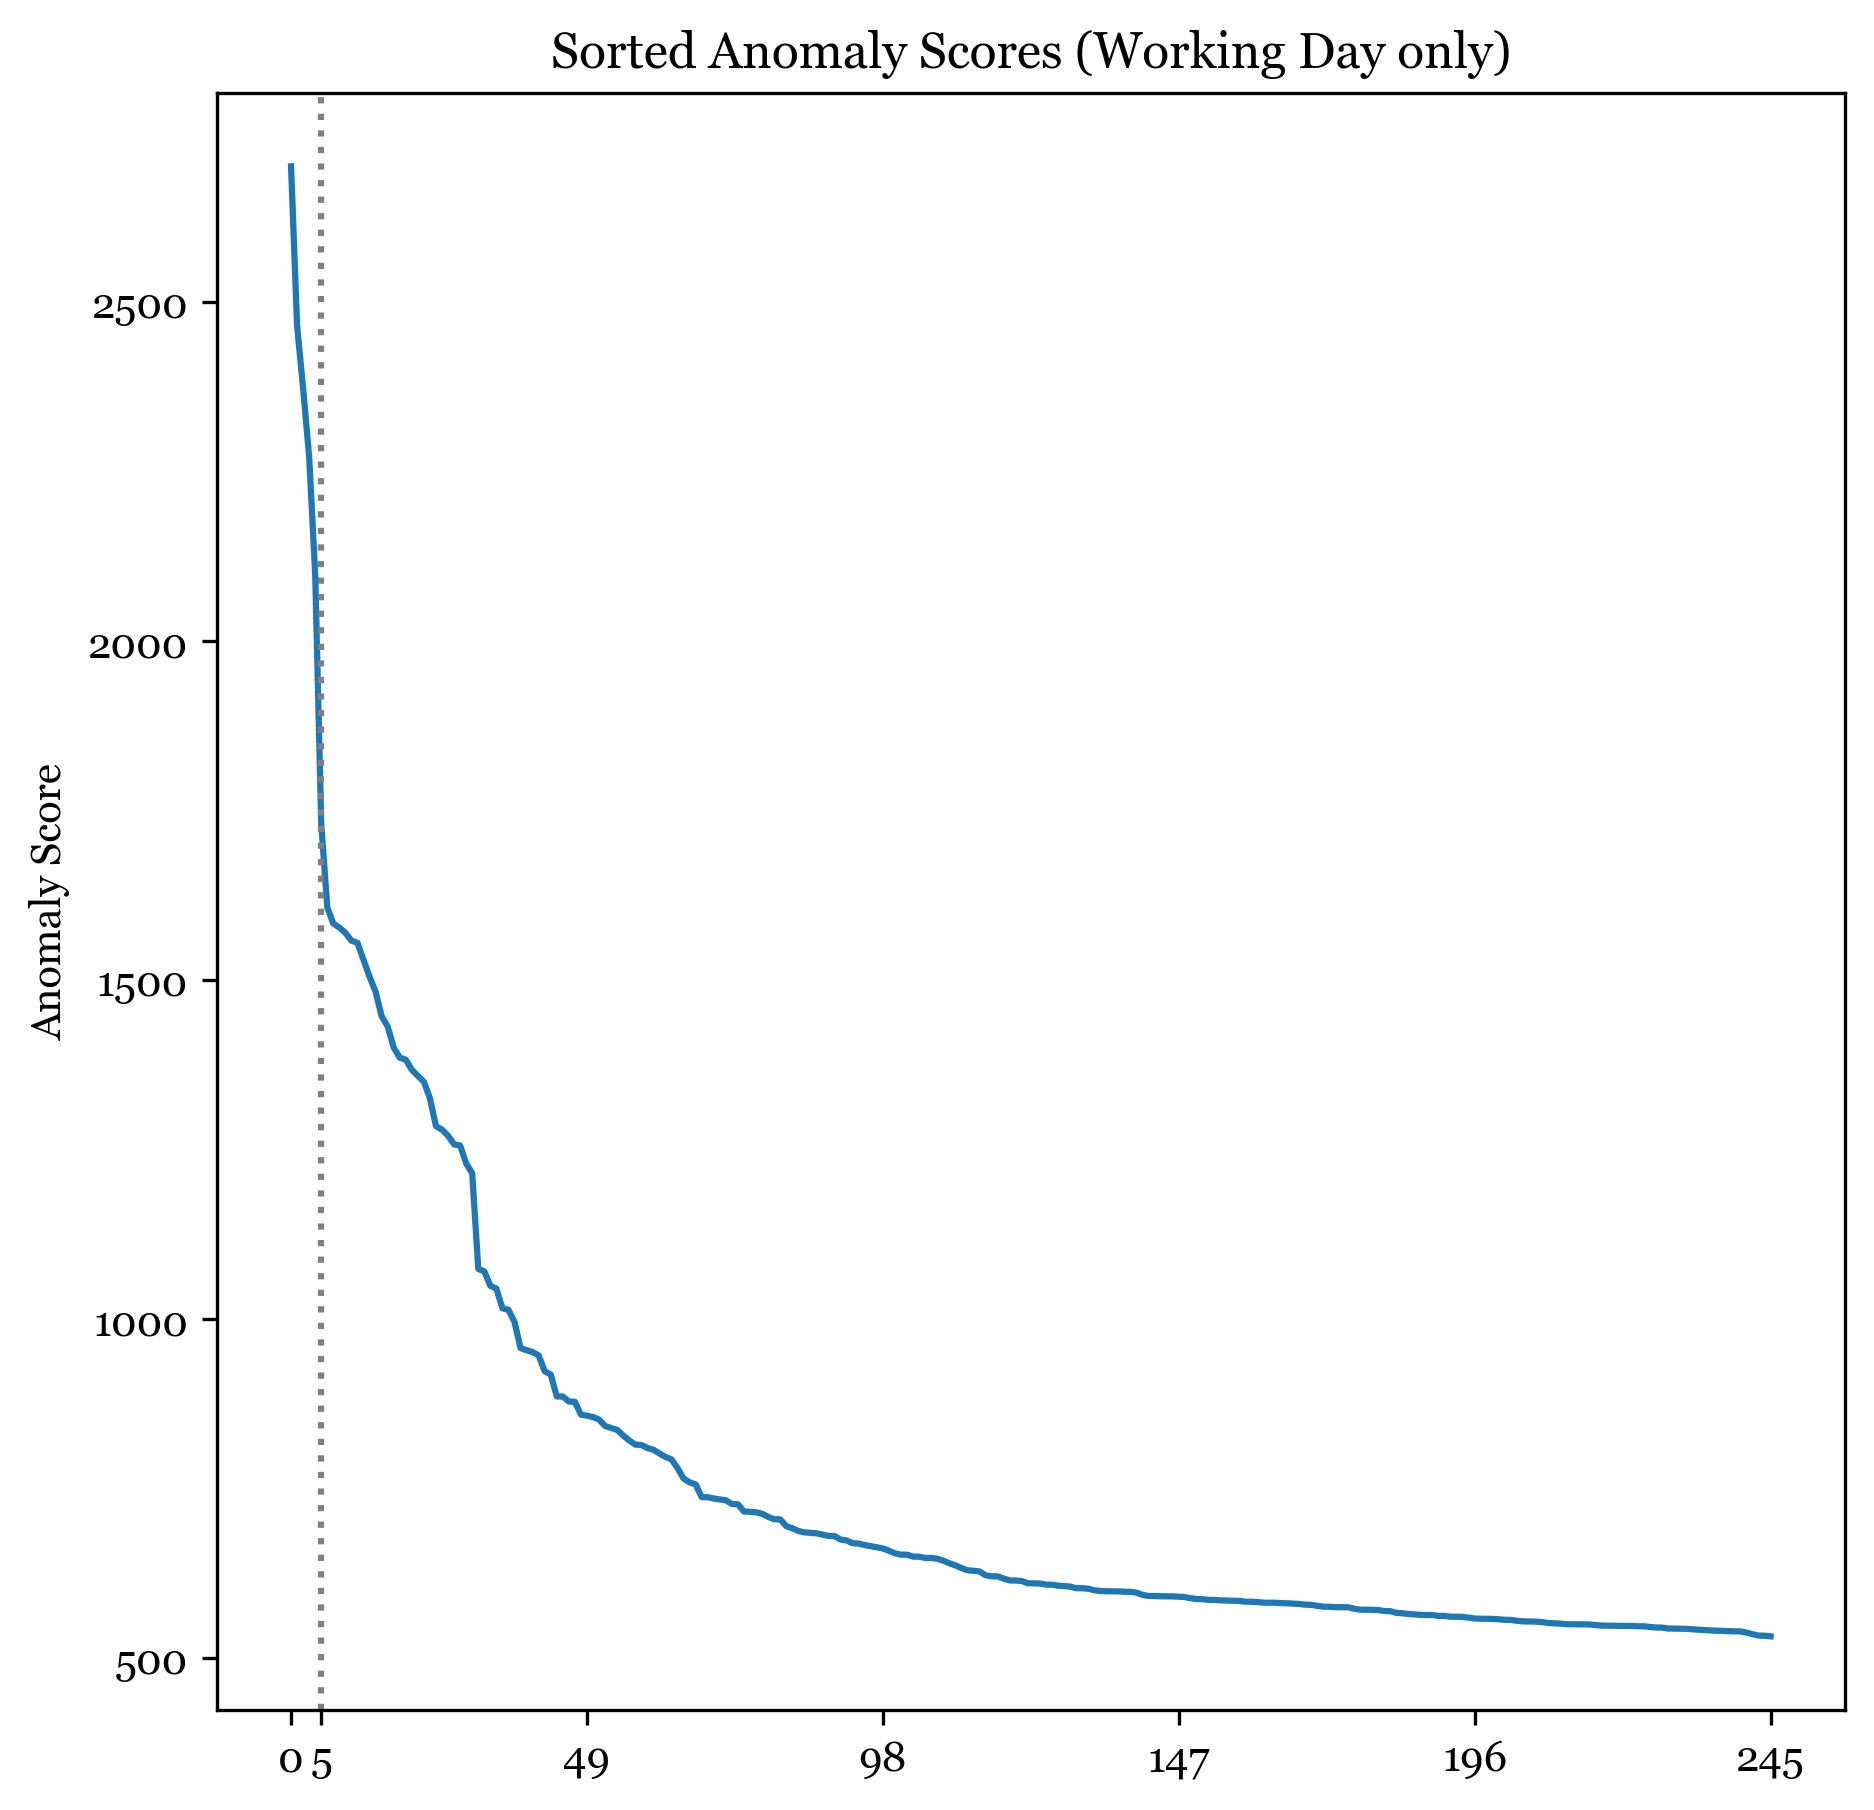
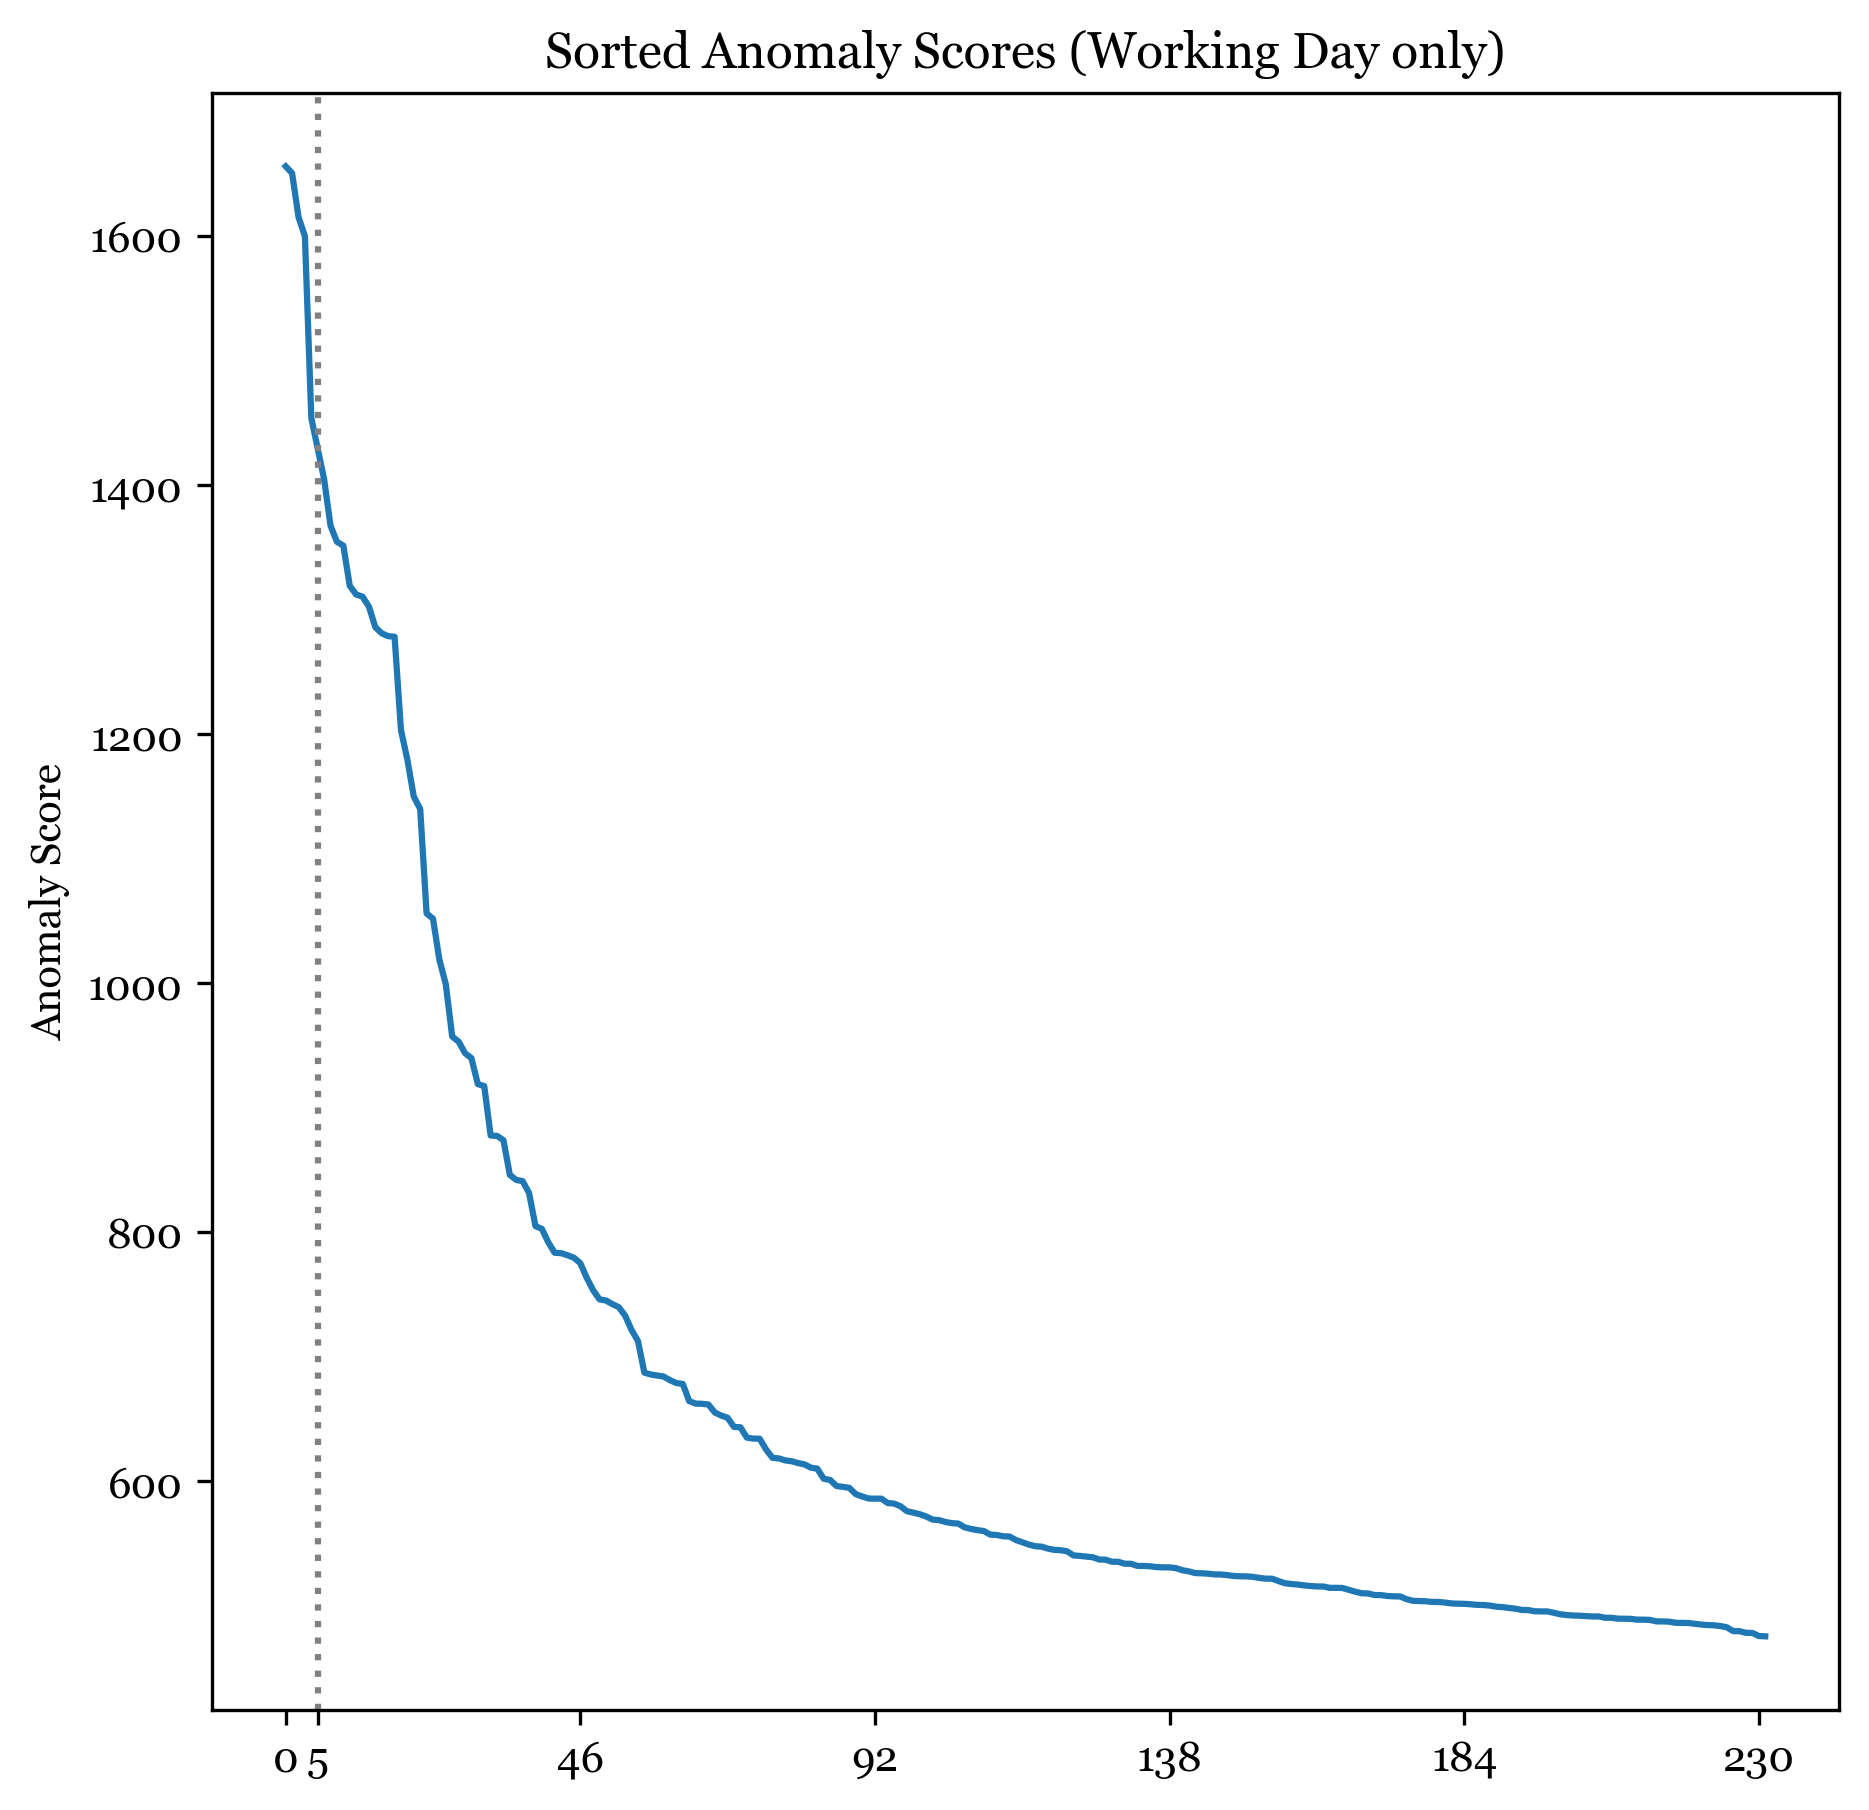
added cart analysis

diff --git a/Roberto Chiosa/CMP/Polito_Usecase_1.py b/Roberto Chiosa/CMP/Polito_Usecase_1.py
@@ -14,7 +14,7 @@ from distancematrix.consumer import MatrixProfileLR, ContextualMatrixProfile
 from distancematrix.consumer.contextmanager import GeneralStaticManager
 
 from matplotlib import rc  # font plot
-from kneed import KneeLocator  # find knee of curve
+# from kneed import KneeLocator  # find knee of curve
 
 # useful paths
 path_to_data = 'Polito_Usecase/data/'
@@ -29,7 +29,17 @@ rc('font', **{'family': 'serif', 'serif': ['Georgia']})
 plt.rcParams.update({'font.size': fontsize})
 
 
-# rc('text', usetex=False)
+def anomaly_score_calc(group_matrix, group_array):
+    """
+        utils function used to calculate anomaly score
+        :param group_matrix:
+        :param group_array:
+        :return:
+        """
+
+    # Calculate an anomaly score by summing the values (per type of day) across one axis and averaging
+    cmp_group_score_array = np.nansum(group_matrix, axis=1) / np.count_nonzero(group_array)
+    return cmp_group_score_array
 
 
 def CMP_plot(contextual_mp,
@@ -107,6 +117,7 @@ print(' POLITO CASE STUDY\n',
       'Electrical Load dataset from Substation C\n',
       '- From\t', data.index[0], '\n',
       '- To\t', data.index[len(data) - 1], '\n',
+      '-', len(data.index[::obs_per_day]), '\tdays\n',
       '-', len(data), 'observations every 15 min\n',
       '-', obs_per_day, '\t observations per day\n',
       '-', obs_per_hour, '\t observations per hour\n'
@@ -235,12 +246,11 @@ for i in range(n_group):
     group_cmp[group_cmp == np.inf] = 0
     group_dates = data.index[::obs_per_day].values[group]
 
-
-    # Calculate an anomaly score by summing the values (per type of day) across one axis and averaging
-    cmp_group_score = np.nansum(group_cmp, axis=1) / np.count_nonzero(group)
+    # Calculate an anomaly score
+    cmp_group_score = anomaly_score_calc(group_cmp, group)
 
     # Merge the scores for all types of day into one array
-    cmp_ad_score = np.zeros(len(cmp.distance_matrix))*np.nan
+    cmp_ad_score = np.zeros(len(cmp.distance_matrix)) * np.nan
     cmp_ad_score[group] = cmp_group_score
     # Ordering of all days, from most to least anomalous
     ad_order = np.argsort(cmp_ad_score)[::-1]
@@ -281,7 +291,9 @@ for i in range(n_group):
     plt.savefig(path_to_figures + group_name + "/polito_anomaly_score.png", dpi=dpi_resolution, bbox_inches='tight')
 
     # Visualise the top anomalies according to the CMP
-    fig, ax = plt.subplots(num_anomalies_to_show, 2, sharex=True, sharey=True, figsize=(10, 14),
+    fig, ax = plt.subplots(num_anomalies_to_show, 2,
+                           sharex='all',
+                           figsize=(10, 14),
                            gridspec_kw={'wspace': 0., 'hspace': 0.})
 
     ax[0, 0].set_title("Anomaly vs all")
